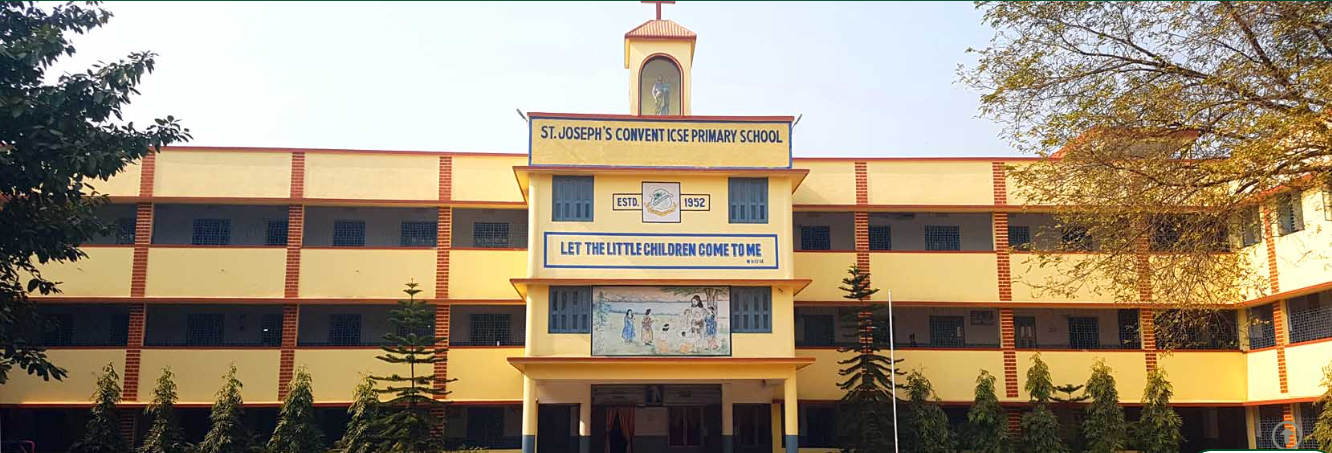
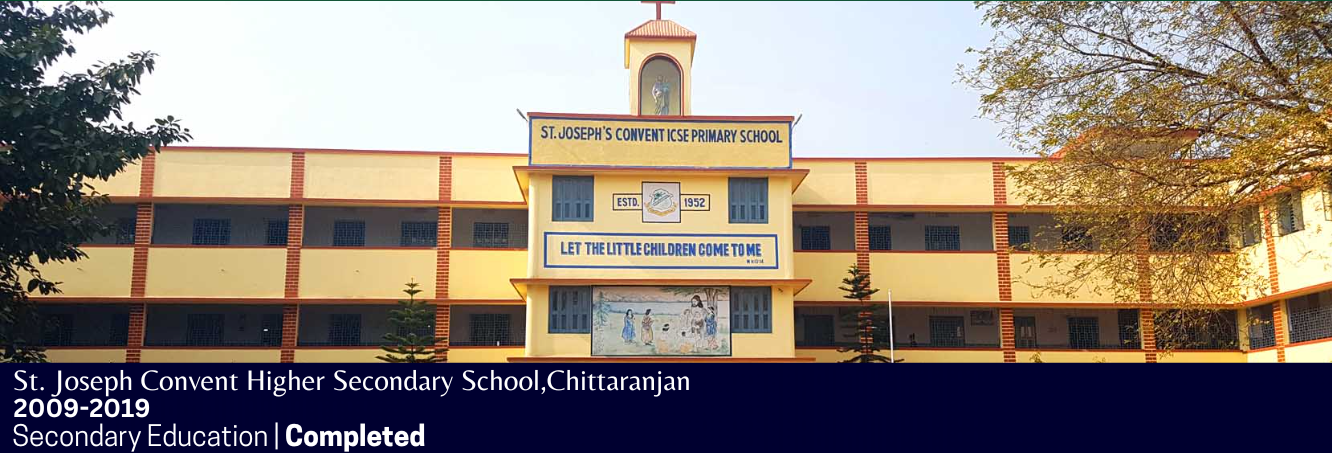
upadate

Changed region(s): [[0.0, 0.7726, 1.0, 1.0]]

diff --git a/index.html b/index.html
@@ -136,50 +136,92 @@
 
 
 <!-- education section starts -->
-<section class="education" id="education">
+
 
   <h1 class="heading"><i class="fas fa-graduation-cap"></i> My <span>Education</span></h1>
-
-    <p class="qoute">Education is not the learning of facts, but the training of the mind to think.</p>
-
-    <div class="box-container">
-
-    <div class="box">
-        <div class="image">
-        <img draggable="false" src="./assets/images/educat/aecc.jpg" alt="">
-        </div>
-        <div class="content">
-        <h3>Bachelor of Engineering in Computer Science & Engineering</h3>
-        <p>Asansol Engineering College | AEC</p>
-        <h4>2021-2025 | Pursuing</h4>
-        </div>
+<div class="img-slider">
+  <div class="slide active">
+    <img src="assets/images/educat/aecc.png" alt="">
+    <div class="info">
+      
     </div>
-
-    <div class="box">
-      <div class="image">
-      <img draggable="false" src="./assets/images/educat/gtb.jpg" alt="">
-      </div>
-      <div class="content">
-      <h3>Senior Secondary Education</h3>
-      <p>Guru Teg Bahadur Public School | CBSE</p>
-      <h4>2019-2021 | Completed</h4>
-      </div>
+  </div>
+  <div class="slide">
+    <img src="assets/images/educat/gtb.png" alt="">
+    <div class="info">
+      
     </div>
-
-    <div class="box">
-      <div class="image">
-      <img draggable="false" src="./assets/images/educat/sj.png" alt="">
-      </div>
-      <div class="content">
-      <h3>Secondary Education</h3>
-      <p>St. Joseph Convent Higher Secondary School | ICSE</p>
-      <h4>2009-2019 | Completed</h4>
-      </div>
+  </div>
+  <div class="slide">
+    <img src="assets/images/educat/sj.png" alt="">
+    <div class="info">
+      
     </div>
-
+  </div>
+  
+  <div class="navigation">
+    <div class="btn active"></div>
+    <div class="btn"></div>
+    <div class="btn"></div>
+    <div class="btn"></div>
+    <div class="btn"></div>
+  </div>
 </div>
-</section>
-<!-- education section ends -->
+
+<script type="text/javascript">
+var slides = document.querySelectorAll('.slide');
+var btns = document.querySelectorAll('.btn');
+let currentSlide = 1;
+
+// Javascript for image slider manual navigation
+var manualNav = function(manual){
+  slides.forEach((slide) => {
+    slide.classList.remove('active');
+
+    btns.forEach((btn) => {
+      btn.classList.remove('active');
+    });
+  });
+
+  slides[manual].classList.add('active');
+  btns[manual].classList.add('active');
+}
+
+btns.forEach((btn, i) => {
+  btn.addEventListener("click", () => {
+    manualNav(i);
+    currentSlide = i;
+  });
+});
+
+// Javascript for image slider autoplay navigation
+var repeat = function(activeClass){
+  let active = document.getElementsByClassName('active');
+  let i = 1;
+
+  var repeater = () => {
+    setTimeout(function(){
+      [...active].forEach((activeSlide) => {
+        activeSlide.classList.remove('active');
+      });
+
+    slides[i].classList.add('active');
+    btns[i].classList.add('active');
+    i++;
+
+    if(slides.length == i){
+      i = 0;
+    }
+    if(i >= slides.length){
+      return;
+    }
+    repeater();
+  }, 10000);
+  }
+  repeater();
+}
+repeat();
+</script>
 
 
 <!-- work project section starts -->
@@ -228,10 +270,10 @@
     <div class="container left">
       <div class="content">
         <div class="tag">
-          <h2>Full Stack Developer</h2>
+          <h2>Frontend Developer</h2>
         </div>
         <div class="desc">
-            <h3>Web Developer | Internship</h3>
+            <h3>Web Developer</h3>
             <p>Oct 2021 - present</p>
         </div>
       </div>

diff --git a/assets/css/style.css b/assets/css/style.css
@@ -1222,4 +1222,178 @@ form .button-area {
 #scroll-top.active {
   top: calc(100% - 12rem);
 }
+
 /* scroll top ends */
+.swiper {
+  width: 600px;
+  height: 300px;
+  text-align: center;
+}
+
+.swiper-slide{
+  background: #fff;
+  display: flex;
+  align-items: center;
+  flex-direction: column;
+  justify-content: center;
+  border-radius: 5px;
+  transition: .5s linear;
+}
+
+:root{
+  --swiper-theme-color: #6332f6;
+}
+
+button{
+  padding: 10px;
+  background: #6332f6;
+  border: none;
+  outline: none;
+  border-radius: 4px;
+  color: #fff;
+  cursor: pointer;
+  font-family: 'Poppins', sans-serif;
+}
+
+button:hover{
+  background: #571fff;
+}
+.img-slider{
+  position:center;
+  width: 800px;
+  height: 500px;
+  margin: 10px;
+  background:  rgba(255, 255, 255, 0);
+}
+
+.img-slider .slide{
+  z-index: 1;
+  position: absolute;
+  width: 100%;
+  clip-path: circle(0% at 0 50%);
+}
+
+.img-slider .slide.active{
+  clip-path: circle(150% at 0 50%);
+  transition: 2s;
+  transition-property: clip-path;
+}
+
+.img-slider .slide img{
+  z-index: 1;
+  width: 98.5%;
+  border-radius: 5px;
+}
+
+.img-slider .slide .info{
+  position: absolute;
+  top: 0;
+  padding: 15px 30px;
+}
+
+.img-slider .slide .info h2{
+  color: #f7f7f7;
+  font-size: 45px;
+  text-transform: uppercase;
+  font-weight: 800;
+  letter-spacing: 2px;
+}
+
+
+
+.img-slider .navigation{
+  z-index: 2;
+  position: absolute;
+  display: flex;
+  bottom: 30px;
+  left: 50%;
+  transform: translateX(-50%);
+}
+
+
+
+
+@media (max-width: 820px){
+  .img-slider{
+    width: 600px;
+    height: 375px;
+  }
+
+  .img-slider .slide .info{
+    padding: 10px 25px;
+  }
+
+  .img-slider .slide .info h2{
+    font-size: 35px;
+  }
+
+  .img-slider .slide .info p{
+    width: 70%;
+    font-size: 15px;
+  }
+
+  .img-slider .navigation{
+    bottom: 25px;
+  }
+
+  .img-slider .navigation .btn{
+    width: 10px;
+    height: 10px;
+    margin: 8px;
+  }
+}
+
+@media (max-width: 620px){
+  .img-slider{
+    width: 400px;
+    height: 250px;
+  }
+
+  .img-slider .slide .info{
+    padding: 10px 20px;
+  }
+
+  .img-slider .slide .info h2{
+    font-size: 30px;
+  }
+
+  .img-slider .slide .info p{
+    width: 80%;
+    font-size: 13px;
+  }
+
+  .img-slider .navigation{
+    bottom: 15px;
+  }
+
+  .img-slider .navigation .btn{
+    width: 8px;
+    height: 8px;
+    margin: 6px;
+  }
+}
+
+@media (max-width: 420px){
+  .img-slider{
+    width: 320px;
+    height: 200px;
+  }
+
+  .img-slider .slide .info{
+    padding: 5px 10px;
+  }
+
+  .img-slider .slide .info h2{
+    font-size: 25px;
+  }
+
+  .img-slider .slide .info p{
+    width: 90%;
+    font-size: 11px;
+  }
+
+  .img-slider .navigation{
+    bottom: 10px;
+  }
+}
+      

diff --git a/assets/js/script.js b/assets/js/script.js
@@ -257,3 +257,27 @@ srtop.reveal('.experience .timeline .container', { interval: 400 });
 /* SCROLL CONTACT */
 srtop.reveal('.contact .container', { delay: 400 });
 srtop.reveal('.contact .container .form-group', { delay: 400 });
+
+const swiper = new Swiper('.swiper', {
+    // Optional parameters
+    direction: 'horizontal',
+    loop: true,
+    effect: "cards",
+  
+    // If we need pagination
+    pagination: {
+      el: '.swiper-pagination',
+      dynamicBullets: true,
+    },
+  
+    // Navigation arrows
+    navigation: {
+      nextEl: '.swiper-button-next',
+      prevEl: '.swiper-button-prev',
+    },
+  
+    // And if we need scrollbar
+    // scrollbar: {
+    //   el: '.swiper-scrollbar',
+    // },
+  });
